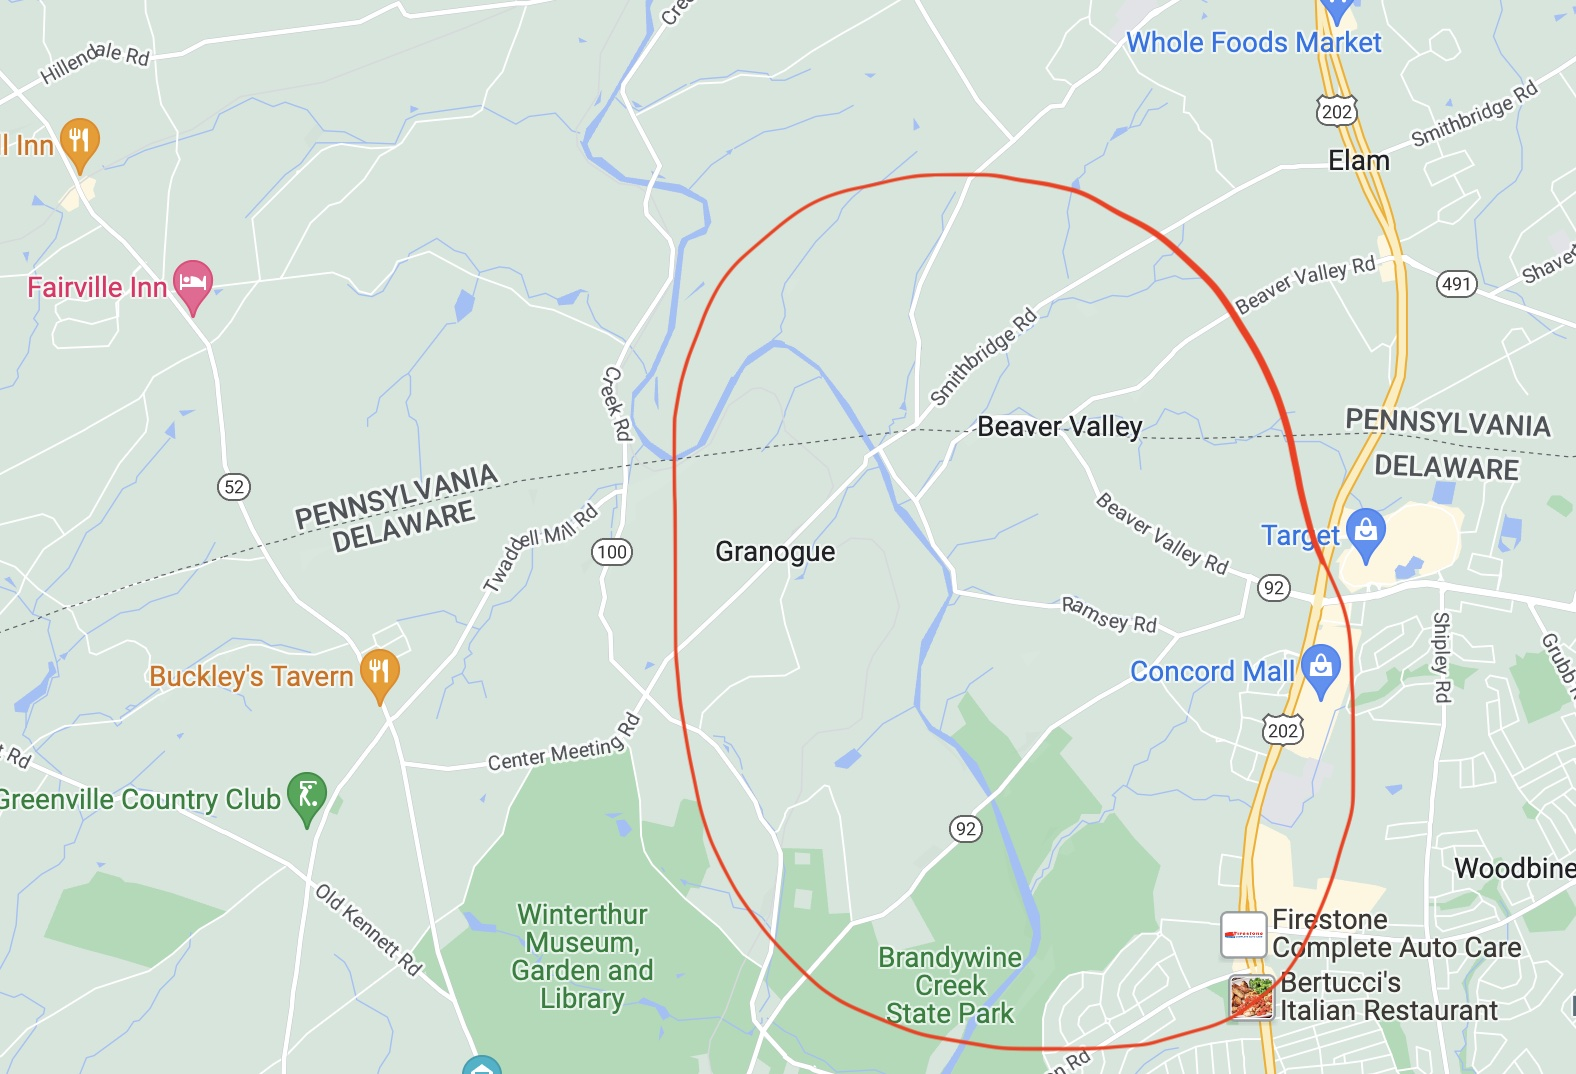
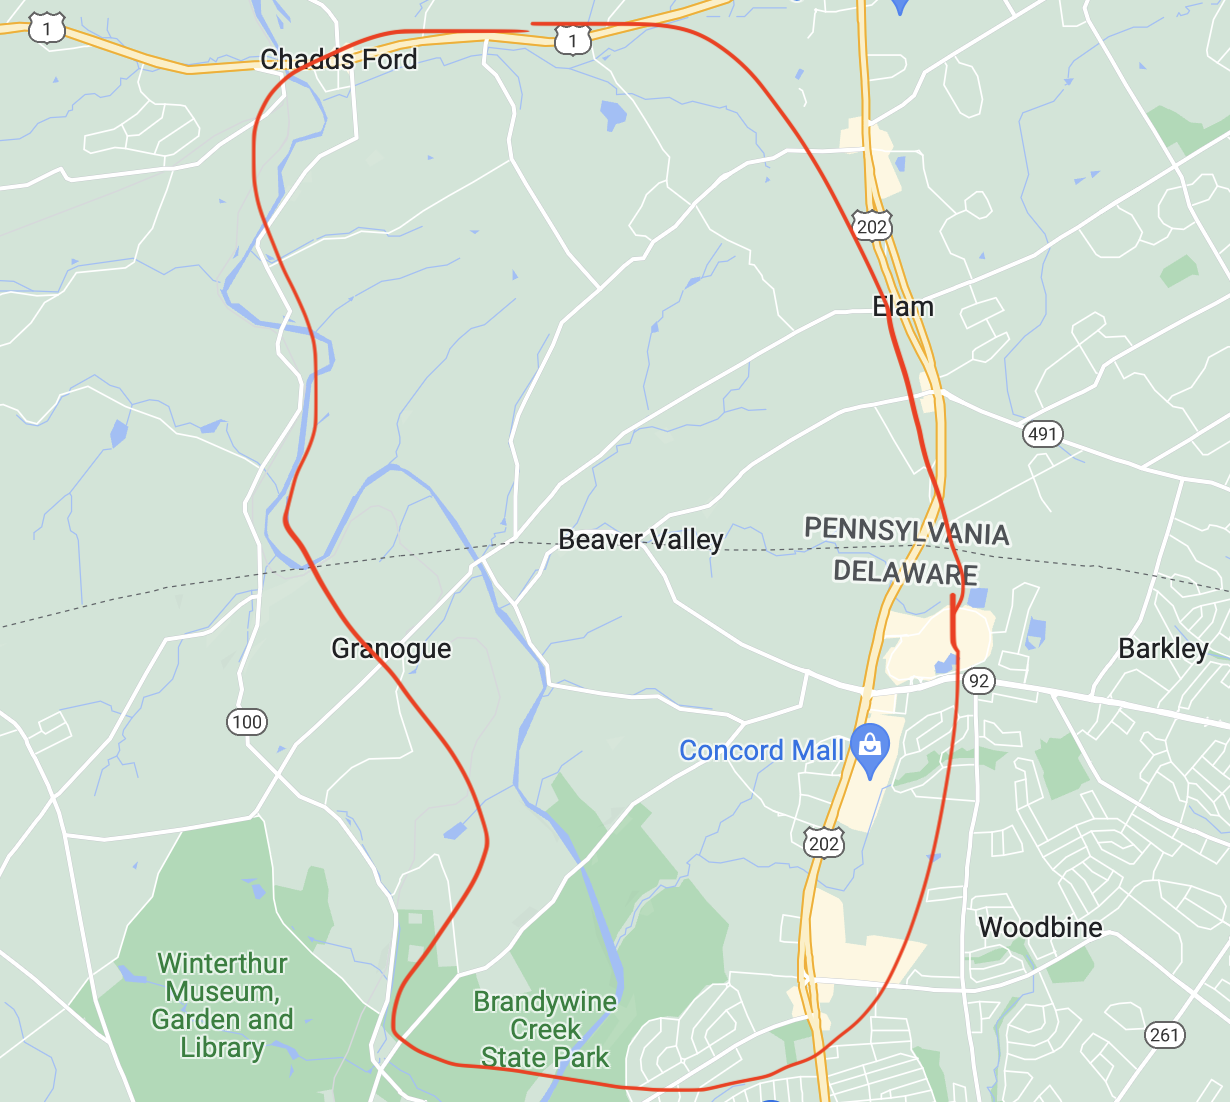
fixes

diff --git a/pages/index.js b/pages/index.js
@@ -57,15 +57,15 @@ export default function Home() {
 
       <About />
 
+      <Sightings />
+
       <Searches
         user={user}
         searchesRefresh={searchesRefresh}
         setShowModal={setShowModal}
       />
 
-      <Sightings />
-
-      <Purpose />
+      {/* <Purpose /> */}
 
       <Modal
         showModal={showModal}
@@ -111,14 +111,11 @@ function Hero() {
             back safely to us.
           </p>
           <p className="mt-6 text-3xl text-gray-200 md:w-2/3">
-            If you think you&apos;ve seen him, please contact us right away at
-            one of these numbers:
+            If you think you&apos;ve seen him, please contact us right away:
           </p>
-          <p className="mt-3 text-3xl text-gray-100 max-w-3xl font-bold">
-            Phone 1: <span>(302) 740-7176 </span>
-          </p>
+
           <p className="mt-6 text-3xl text-gray-100 max-w-3xl font-bold">
-            Phone 2: <span>(302) 220-9433 </span>
+            Phone: <span>(302) 220-9433 </span>
           </p>
         </div>
         <img
@@ -202,7 +199,18 @@ function Sightings() {
                         ).toDateString()}
                       </td>
                       <td className="whitespace-nowrap px-3 py-4  text-gray-500">
-                        {sighting.location}
+                        {sighting?.locationIsLink ? (
+                          <a
+                            href={sighting.locationLink}
+                            rel="noopener noreferrer"
+                            target="_blank"
+                            className="text-blue-400 underline hover:opacity-80"
+                          >
+                            {sighting.location}
+                          </a>
+                        ) : (
+                          <p>{sighting.location}</p>
+                        )}
                       </td>
                       <td className="whitespace-nowrap px-3 py-4  text-gray-500">
                         {sighting.notes}
@@ -269,9 +277,12 @@ function Searches({ user, searchesRefresh, setShowModal }) {
           <div className="md:w-2/3">
             <h1>Community Searches</h1>
             <p className="text-gray-600 mt-2 text-2xl font-normal">
-              The awesome DE and PA community is out searching for Finn! Check
-              out where people have been looking, or sign in with Google to add
-              your own search.
+              The DE and PA community is out searching for Finn! If you want to
+              search for Finn, first see where people have been looking. If you
+              want to let the community know where you looked,{" "}
+              <span className="underline">
+                you can sign in with Google to add your own search here!
+              </span>
             </p>
           </div>
           {user ? (
@@ -290,12 +301,12 @@ function Searches({ user, searchesRefresh, setShowModal }) {
             <div className="flex items-center justify-center flex-col">
               <button
                 onClick={signInWithGoogle}
-                className="bg-yellow-700 rounded-2xl px-2 py-4 hover:opacity-70"
+                className="bg-yellow-800 text-gray-200 rounded-2xl px-2 py-4 hover:opacity-70"
               >
                 Sign In with Google
               </button>
               <p className="font-normal text-lg text-gray-700">
-                (Sign in to post your Finn search)
+                (This is only for authentication)
               </p>
             </div>
           )}
@@ -345,22 +356,22 @@ function Searches({ user, searchesRefresh, setShowModal }) {
                   </tr>
                 </thead>
                 <tbody className="divide-y divide-gray-200 bg-white">
-                  {searches.map((sighting) => (
-                    <tr key={sighting.name}>
-                      <td className="whitespace-nowrap py-4 pl-4 pr-3  font-medium text-gray-900 sm:pl-6">
-                        {sighting.name}
+                  {searches.map((search) => (
+                    <tr key={search.name} className="w-full">
+                      <td className="whitespace-nowrap py-4 pl-4 pr-3 w-1/6 font-medium text-gray-900 sm:pl-6 overscroll-auto">
+                        {search.name}
                       </td>
-                      <td className="whitespace-nowrap px-3 py-4 text-gray-500">
+                      <td className="whitespace-nowrap px-3 py-4 w-1/6 text-gray-500 overscroll-auto">
                         {new Date(
-                          sighting.time.seconds * 1000 +
-                            sighting.time.nanoseconds / 1000000
+                          search.time.seconds * 1000 +
+                            search.time.nanoseconds / 1000000
                         ).toDateString()}
                       </td>
-                      <td className="whitespace-nowrap px-3 py-4  text-gray-500">
-                        {sighting.location}
+                      <td className="whitespace-nowrap px-3 py-4 w-1/3 text-gray-500 overscroll-auto">
+                        {search.location}
                       </td>
-                      <td className="whitespace-nowrap px-3 py-4  text-gray-500">
-                        {sighting.notes}
+                      <td className="whitespace-nowrap px-3 py-4 w-1/3 text-gray-500 overscroll-auto">
+                        {search.notes}
                       </td>
                     </tr>
                   ))}
@@ -560,7 +571,9 @@ function About() {
               old, 40-lb English Pointer. He is usually very friendly and
               usually loves people, however we believe that he is now in
               &quot;survival mode.&quot; This means that he might be afraid of
-              people or might run away at sudden noises.{" "}
+              people or might run away at sudden noises. his harness has
+              reflective yarn, which should hopefully shine if using a
+              flashlight or car light to search.{" "}
               <span className="underline">
                 If you know someone with tracking dogs, we would appreciate if
                 you put us in contact!
@@ -598,7 +611,7 @@ function About() {
       </h2>
       <p className="text-center text-gray-700">
         We think he&apos;s in this area of upper Delaware into lower
-        Pennsylvania.
+        Pennsylvania. He could be as far north as Route 1 in PA.
       </p>
       <img
         src="map.jpg"
@@ -606,6 +619,10 @@ function About() {
         height="300"
         width="800"
       />
+      <p className="mt-6 text-3xl text-gray-800 w-full font-bold text-center">
+        If you think you&apos;ve seen him, please call{" "}
+        <span>(302) 220-9433 </span>
+      </p>
     </div>
   );
 }
